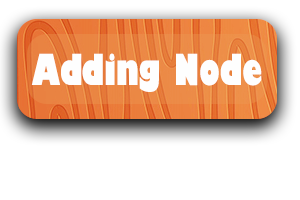
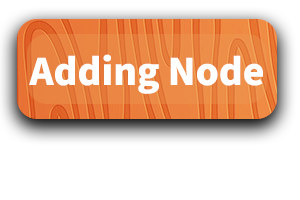
replace some images, create edit and delete function

Changed region(s): [[0.09, 0.24, 0.9, 0.48]]

diff --git a/main.py b/main.py
@@ -8,7 +8,6 @@ from states.adding import handle_adding_state
 from states.edit import handle_edit_state
 from states.delete import handle_delete_state
 
-
 # Settings
 menuSize = 300
 screenSizeX = 1600
@@ -42,7 +41,13 @@ TitleImage, TitleRect = helper.createImageImport('resources/Title.png', 150, 100
 
 # Images for Menu
 menuSquareImage, menuSquareImageRect = helper.createImageImport('resources/menuSquare.png', screenSizeX / 2, screenSizeY / 2)
+
+# Modal titles
 menuAddingTitleImage, menuAddingTitleRect = helper.createImageImport('resources/AddingNodeTitle.png', 550 , 200)
+menuEditingTitleImage, menuEditingTitleRect = helper.createImageImport('resources/EditingNodeTitle.png', 550 , 200)
+menuDeletingTitleImage, menuDeletingTitleRect = helper.createImageImport('resources/DeletingNodeTitle.png', 550 , 200)
+
+# Field Names
 nameAddingImage, nameAddingRect = helper.createImageImport('resources/nameBar.png', screenSizeX / 2 , 350)
 populationAddingImage, populationAddingRect = helper.createImageImport('resources/PopulationBar.png', screenSizeX / 2, 510)
 connectionAddingImage, connectionAddingRect = helper.createImageImport('resources/ConnectionBar.png', screenSizeX / 2, 670)
@@ -75,6 +80,17 @@ input_boxes = [
     InputBox(screenSizeX / 3.5, 645, 250, 32, 'e.g. Cat:eater, Bear:eater, Plankton:food, Shrimp:food')
 ]
 
+def reset_input_boxes(input_boxes, selectedNode):
+    # print("Resetting fields")
+    input_boxes[0].text = ""
+    input_boxes[0].placeholder = "e.g. Fish"
+    input_boxes[1].text = ""
+    input_boxes[1].placeholder = "e.g. 100"
+    input_boxes[2].text = ""
+    input_boxes[2].placeholder = "e.g. Cat:eater, Bear:eater, Plankton:food, Shrimp:food"
+    if hasattr(selectedNode, "_initialized"):
+        del selectedNode._initialized
+
 # Pygame Loop
 while running:
     # Loads all the images for the Normal Status
@@ -86,7 +102,6 @@ while running:
     EditNodeButton.drawButton(screen=screen)
     DeleteNodeButton.drawButton(screen=screen)
     StartButton.drawButton(screen=screen)
-
 
     # Parse all the nodes and creates a circle
     for parse in node:
@@ -102,8 +117,6 @@ while running:
         population_text = font.render(str(parse.population), True, (255, 255, 255))  # White text
         population_rect = population_text.get_rect(center=(parse.x, parse.y))  # Position at the center of the node
         screen.blit(population_text, population_rect)
-    # for parse in node:
-    #     pygame.draw.circle(screen, parse.color, [parse.x, parse.y], parse.radius)
 
     menuSurface = pygame.Surface((1600, 1000))
     menuSurface.fill((0, 0, 0))
@@ -111,6 +124,7 @@ while running:
 
     # Event Manager for Normal GameState
     if gameState == "Normal":
+        reset_input_boxes(input_boxes, selectedNode)
         for event in pygame.event.get():
             # Finds the cursor when it clicks down and checks for circle colision
             if event.type == pygame.MOUSEBUTTONDOWN:
@@ -172,21 +186,19 @@ while running:
     elif gameState == 'EditPopup':
         print("editing", selectedNode.name)
         running, gameState = handle_edit_state(screen, screenSizeX, screenSizeY, menuSurface, gameState, menuSquareImage, 
-                      menuSquareImageRect, menuAddingTitleImage, 
-                      menuAddingTitleRect, nameAddingImage, 
+                      menuSquareImageRect, menuEditingTitleImage, 
+                      menuEditingTitleRect, nameAddingImage, 
                       nameAddingRect, populationAddingImage, 
                       populationAddingRect, connectionAddingImage, 
                       connectionAddingRect, EditNodeButtonEditingMenu, 
                       CancelButtonAddingMenu, input_boxes, node, selectedNode)
 
     elif gameState == 'Deleting':
-        running, gameState = handle_delete_state(screen, menuSurface, gameState, menuSquareImage, 
-                      menuSquareImageRect, menuAddingTitleImage, 
-                      menuAddingTitleRect, nameAddingImage, 
-                      nameAddingRect, populationAddingImage, 
-                      populationAddingRect, connectionAddingImage, 
-                      connectionAddingRect, DeleteNodeButtonDeletingMenu, 
-                      CancelButtonAddingMenu)
+        running, gameState = handle_delete_state(screen, screenSizeX, screenSizeY, menuSurface, gameState, menuSquareImage, 
+                      menuSquareImageRect, menuDeletingTitleImage, 
+                      menuDeletingTitleRect, nameAddingImage, 
+                      nameAddingRect, DeleteNodeButtonDeletingMenu, 
+                      CancelButtonAddingMenu, input_boxes, node)
 
     # I still dont know why we need this but yes
     pygame.display.flip()

diff --git a/states/delete.py b/states/delete.py
@@ -3,19 +3,15 @@ from node import Node
 from button import Button
 from input_box import InputBox
 
-def handle_delete_state(screen, menuSurface, gameState, menuSquareImage, 
-                      menuSquareImageRect, menuAddingTitleImage, 
-                      menuAddingTitleRect, nameAddingImage, 
-                      nameAddingRect, populationAddingImage, 
-                      populationAddingRect, connectionAddingImage, 
-                      connectionAddingRect, DeleteNodeButtonDeletingMenu, 
-                      CancelButtonAddingMenu):
+def handle_delete_state(screen, screenSizeX, screenSizeY, menuSurface, gameState, menuSquareImage, 
+                      menuSquareImageRect, menuDeletingTitleImage, 
+                      menuDeletingTitleRect, nameAddingImage, 
+                      nameAddingRect, DeleteNodeButtonDeletingMenu, 
+                      CancelButtonAddingMenu, input_boxes, node):
     screen.blit(menuSurface, (0, 0))
     screen.blit(menuSquareImage, menuSquareImageRect)
-    screen.blit(menuAddingTitleImage, menuAddingTitleRect)
+    screen.blit(menuDeletingTitleImage, menuDeletingTitleRect)
     screen.blit(nameAddingImage, nameAddingRect)
-    screen.blit(populationAddingImage, populationAddingRect)
-    screen.blit(connectionAddingImage, connectionAddingRect)
 
     DeleteNodeButtonDeletingMenu.drawButton(screen=screen)
     CancelButtonAddingMenu.drawButton(screen=screen)
@@ -24,9 +20,40 @@ def handle_delete_state(screen, menuSurface, gameState, menuSquareImage,
     for event in pygame.event.get():
         if event.type == pygame.MOUSEBUTTONDOWN:
             if event.button == 1:
-                gameState = "Normal"
+                currentX, currentY = event.pos
+                if (currentX > (screenSizeX / 2 + 415) or currentX < (screenSizeX / 2 - 415)) or (currentY > (screenSizeY / 2 + 415) or currentY < (screenSizeY / 2 - 415)):
+                    gameState = "Normal"
+                if CancelButtonAddingMenu.isOver(event.pos):
+                    gameState = 'Normal'
+                if DeleteNodeButtonDeletingMenu.isOver(event.pos):
+                    try:
+                        for n in node:
+                            print("Checking node with the name", input_boxes[0].text)
+                            if n.name == input_boxes[0].text:
+                                print("Removing node", n.name)
+                                node.remove(n)
+                                break
+
+                        gameState = "Normal"
+                    except ValueError as e:
+                        print(f"Error updating node: {e}")
+                if CancelButtonAddingMenu.isOver(event.pos):
+                    gameState = "Normal"
+
+        if event.type == pygame.MOUSEMOTION:
+            pygame.mouse.set_cursor(pygame.SYSTEM_CURSOR_ARROW)
+            if CancelButtonAddingMenu.isOver(event.pos) == True or DeleteNodeButtonDeletingMenu.isOver(event.pos) == True:
+                pygame.mouse.set_cursor(pygame.SYSTEM_CURSOR_HAND)
+
+        # for box in input_boxes:
+        input_boxes[0].handle_event(event)
+
         # Exit
         if event.type == pygame.QUIT:
             return False, gameState
+        
+    # for box in input_boxes:
+    input_boxes[0].update()
+    input_boxes[0].draw(screen)
         
     return True, gameState

diff --git a/states/edit.py b/states/edit.py
@@ -4,15 +4,15 @@ from button import Button
 from input_box import InputBox
 
 def handle_edit_state(screen, screenSizeX, screenSizeY, menuSurface, gameState, menuSquareImage, 
-                      menuSquareImageRect, menuAddingTitleImage, 
-                      menuAddingTitleRect, nameAddingImage, 
+                      menuSquareImageRect, menuEditingTitleImage, 
+                      menuEditingTitleRect, nameAddingImage, 
                       nameAddingRect, populationAddingImage, 
                       populationAddingRect, connectionAddingImage, 
                       connectionAddingRect, EditNodeButtonEditingMenu, 
                       CancelButtonAddingMenu, input_boxes, node, selectedNode):
     screen.blit(menuSurface, (0, 0))
     screen.blit(menuSquareImage, menuSquareImageRect)
-    screen.blit(menuAddingTitleImage, menuAddingTitleRect)
+    screen.blit(menuEditingTitleImage, menuEditingTitleRect)
     screen.blit(nameAddingImage, nameAddingRect)
     screen.blit(populationAddingImage, populationAddingRect)
     screen.blit(connectionAddingImage, connectionAddingRect)
@@ -26,9 +26,6 @@ def handle_edit_state(screen, screenSizeX, screenSizeY, menuSurface, gameState, 
         input_boxes[1].text = str(selectedNode.population)
         input_boxes[2].text = ','.join(selectedNode.connections)
         selectedNode._initialized = True
-    # input_boxes[0].text = selectedNode.name
-    # input_boxes[1].text = str(selectedNode.population)
-    # input_boxes[2].text = ','.join(selectedNode.connections)
 
     # pygame.mouse.set_cursor(pygame.SYSTEM_CURSOR_ARROW)
     for event in pygame.event.get():
@@ -54,16 +51,6 @@ def handle_edit_state(screen, screenSizeX, screenSizeY, menuSurface, gameState, 
                         gameState = "Normal"
                     except ValueError as e:
                         print(f"Error updating node: {e}")
-                    # selectedNode.setName(input_boxes[0].text)
-                    # selectedNode.setPopulation(input_boxes[1].text)
-                    # selectedNode.addConnection(input_boxes[2].text)
-
-                    # for i, n in enumerate(node):
-                    #     if n == selectedNode:  # Identify the node in the array
-                    #         node[i] = selectedNode
-                    #         break  # Exit loop after updating
-
-                    # gameState = "Normal"
                 if CancelButtonAddingMenu.isOver(event.pos):
                     gameState = "Normal"
 
@@ -83,7 +70,11 @@ def handle_edit_state(screen, screenSizeX, screenSizeY, menuSurface, gameState, 
         box.update()
         box.draw(screen)
         
-    if gameState == "Normal" and hasattr(selectedNode, "_initialized"):
-        del selectedNode._initialized
+    # if gameState == "Normal": 
+    #     input_boxes[0].text = ""
+    #     input_boxes[1].text = ""
+    #     input_boxes[2].text = ""
+    #     if hasattr(selectedNode, "_initialized"):
+    #         del selectedNode._initialized
 
     return True, gameState

diff --git a/states/adding.py b/states/adding.py
@@ -22,7 +22,7 @@ def handle_adding_state(screen, screenSizeX, screenSizeY, menuSurface, menuSquar
             if event.button == 1:
                 currentX, currentY = event.pos
                 if (currentX > (screenSizeX / 2 + 415) or currentX < (screenSizeX / 2 - 415)) or (currentY > (screenSizeY / 2 + 415) or currentY < (screenSizeY / 2 - 415)):
-                        gameState = "Normal"
+                    gameState = "Normal"
                 if CancelButtonAddingMenu.isOver(event.pos):
                     gameState = 'Normal'
                 if AddNodeButtonAddingMenu.isOver(event.pos):
